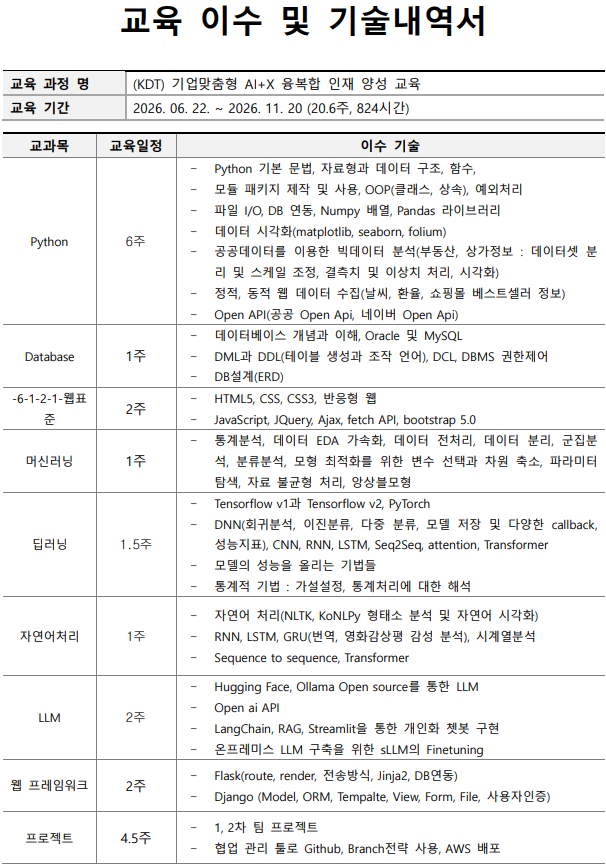
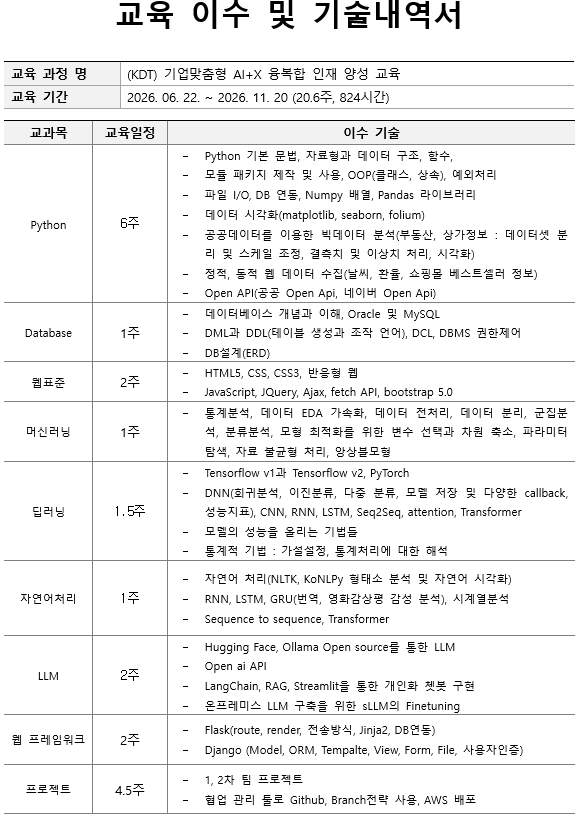
readme최종수정

diff --git a/lecNote/09_Project/README.md b/lecNote/09_Project/README.md
@@ -1,6 +1,66 @@
-\# 1st PROJECTS
+# 🎯 1st PROJECTS
+
+> KDT 1차 프로젝트 (ctrl+shift+v)
+
+## 📌 프로젝트 개요
+
+- **프로젝트명**: 노른자추적(응급상황 예측 및 응급 대처 병원 추천)
+- **개발 기간**: 2026.09.28 ~ 2025.10.11 (2주)
+- **개발 인원**: 3명
+- **주요 기술**:  
+   <div>
+     <img src="https://img.shields.io/badge/Python-3776AB?style=for-the-badge&logo=python&logoColor=white">
+     <img src="https://img.shields.io/badge/Pandas-150458?style=for-the-badge&logo=pandas&logoColor=white">
+     <img src="https://img.shields.io/badge/NumPy-013243?style=for-the-badge&logo=numpy&logoColor=white">
+     <img src="https://img.shields.io/badge/Matplotlib-11557c?style=for-the-badge&logo=python&logoColor=white">
+     <img src="https://img.shields.io/badge/Seaborn-3776AB?style=for-the-badge&logo=python&logoColor=white">
+   </div>
+   <div>
+     <img src="https://img.shields.io/badge/TensorFlow-FF6F00?style=for-the-badge&logo=tensorflow&logoColor=white">
+     <img src="https://img.shields.io/badge/scikit--learn-F7931E?style=for-the-badge&logo=scikit-learn&logoColor=white">
+     <img src="https://img.shields.io/badge/LightGBM-02569B?style=for-the-badge&logoColor=white">
+     <img src="https://img.shields.io/badge/CatBoost-FFCC00?style=for-the-badge&logoColor=black">
+     <img src="https://img.shields.io/badge/XGBoost-EB5424?style=for-the-badge&logoColor=white">
+   </div>
+   <div>
+     <img src="https://img.shields.io/badge/Flask-000000?style=for-the-badge&logo=flask&logoColor=white">
+     <img src="https://img.shields.io/badge/Bootstrap-7952B3?style=for-the-badge&logo=bootstrap&logoColor=white">
+     <img src="https://img.shields.io/badge/HTML5-E34F26?style=for-the-badge&logo=html5&logoColor=white">
+     <img src="https://img.shields.io/badge/CSS3-1572B6?style=for-the-badge&logo=css3&logoColor=white">
+     <img src="https://img.shields.io/badge/JavaScript-F7DF1E?style=for-the-badge&logo=javascript&logoColor=black">
+   </div>
+
+## 📑 목차
+[1. 프로젝트 소개](https://github.com/4aix/1stProject#project-overview)<br>
+[2. 데이터 수집 및 분석](https://github.com/4aix/1stProject#data-preprocessing)<br>
+[3. 모델 개발 및 성능 평가](https://github.com/4aix/1stProject#model-development--performance-evaluation)<br>
+[4. 웹 서비스 구현](https://github.com/4aix/1stProject#web-service-implementation)<br>
+[5. 프로젝트 결과](https://github.com/4aix/1stProject#project-contribution--results)<br>
+[6. 시연 영상](https://github.com/4aix/1stProject#-demo-video)<br>
+
+## Project-overview
+<img width="960" height="540" alt="Image" src="https://github.com/user-attachments/assets/1b136187-8dae-420f-9439-138f9a6a1945" />
+<img width="960" height="540" alt="Image" src="https://github.com/user-attachments/assets/cc821a8a-e78c-48c3-8282-f0f4d0e907a9" />
+<img width="960" height="540" alt="Image" src="https://github.com/user-attachments/assets/5dae88c0-ac2b-4acf-bab9-7b5617767c93" />
+<img width="960" height="540" alt="Image" src="https://github.com/user-attachments/assets/580f9ef5-4a25-4053-a269-a8e7e8e2f9e2" />
+<img width="960" height="540" alt="Image" src="https://github.com/user-attachments/assets/279d1fe2-2fca-4f21-88d4-6fe124cd300a" />
 
 
+## Data Preprocessing
+<img width="960" height="540" alt="Image" src="https://github.com/user-attachments/assets/ff634205-b56b-44ff-8aa0-8efaee125ec8" />
 
-> KDT AI-X 1차 프로젝트
+## Model Development & Performance Evaluation
+<img width="960" height="540" alt="Image" src="https://github.com/user-attachments/assets/40a55104-06d3-4de5-b100-9dcd4e5dcdc5" />
 
+## Web Service Implementation
+<img width="960" height="540" alt="Image" src="https://github.com/user-attachments/assets/ca21d6b1-7a1b-407a-9f25-bcb8fefa4e9a" />
+<img width="960" height="540" alt="Image" src="https://github.com/user-attachments/assets/c2d93570-613f-4a74-85c9-8307c3665e9e" />
+<img width="960" height="540" alt="Image" src="https://github.com/user-attachments/assets/4161274f-a1b8-42a5-a2e6-b0126e6a9091" />
+
+
+## Project Contribution & Results
+<img width="960" height="540" alt="Image" src="https://github.com/user-attachments/assets/cbd785b9-659e-4bf8-8904-7c84e3972aac" />
+
+## 🎬 Demo Video
+[<img width="600" height="400" alt="Image" src="https://github.com/user-attachments/assets/1d45a916-4b14-454a-90de-628a4812cb51" />](https://youtu.be/yPtS84VCDPQ) <br>
+*클릭하면 데모 영상을 볼 수 있습니다*

diff --git a/README.md b/README.md
@@ -18,7 +18,7 @@
 <details>
 <summary><H2>📋 CURRICULUM click!</h2></summary>
 <br>
-<img width="578" height="821" alt="Image" src="https://github.com/user-attachments/assets/552aa4e7-f6d6-4f5d-813f-a66dd60a2e2c" />
+<img width="578" height="820" alt="Image" src="https://github.com/user-attachments/assets/16f74598-2057-49ec-bb1c-5c4f8edcf4fe" />
 </details>
 
 ##  📚 SKILLS
